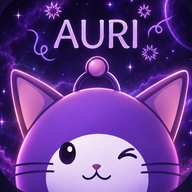
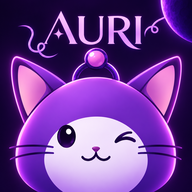
Nuevo ícono de la app (gata Auri con nombre y luna)
Claude-Session: https://claude.ai/code/session_01Bu3z3MD38MdagHcHKnu4Pu

diff --git a/index.html b/index.html
@@ -4,12 +4,12 @@
 <meta charset="UTF-8">
 <meta name="viewport" content="width=device-width, initial-scale=1, viewport-fit=cover">
 <title>Auri — Historias y fanfics</title>
-<link rel="icon" type="image/png" sizes="32x32" href="icons/favicon-32.png">
-<link rel="apple-touch-icon" sizes="180x180" href="icons/apple-touch-icon.png">
+<link rel="icon" type="image/png" sizes="32x32" href="icons/favicon-32.png?v=2">
+<link rel="apple-touch-icon" sizes="180x180" href="icons/apple-touch-icon.png?v=2">
 <link rel="manifest" href="manifest.webmanifest">
 <meta name="apple-mobile-web-app-title" content="Auri">
 <meta name="mobile-web-app-capable" content="yes">
-<link rel="stylesheet" href="styles.css?v=20261124c">
+<link rel="stylesheet" href="styles.css?v=20261124d">
 </head>
 <body>
 <!-- Degradados de la mascota (se reutilizan con url(#auri-fur) / url(#auri-belly)) -->
@@ -24,8 +24,8 @@
 <div id="app"></div>
 <div id="toast" class="toast" role="status" aria-live="polite" hidden></div>
 
-<script src="i18n.js?v=20261124c"></script>
-<script src="qr.js?v=20261124c"></script>
-<script src="app.js?v=20261124c"></script>
+<script src="i18n.js?v=20261124d"></script>
+<script src="qr.js?v=20261124d"></script>
+<script src="app.js?v=20261124d"></script>
 </body>
 </html>
